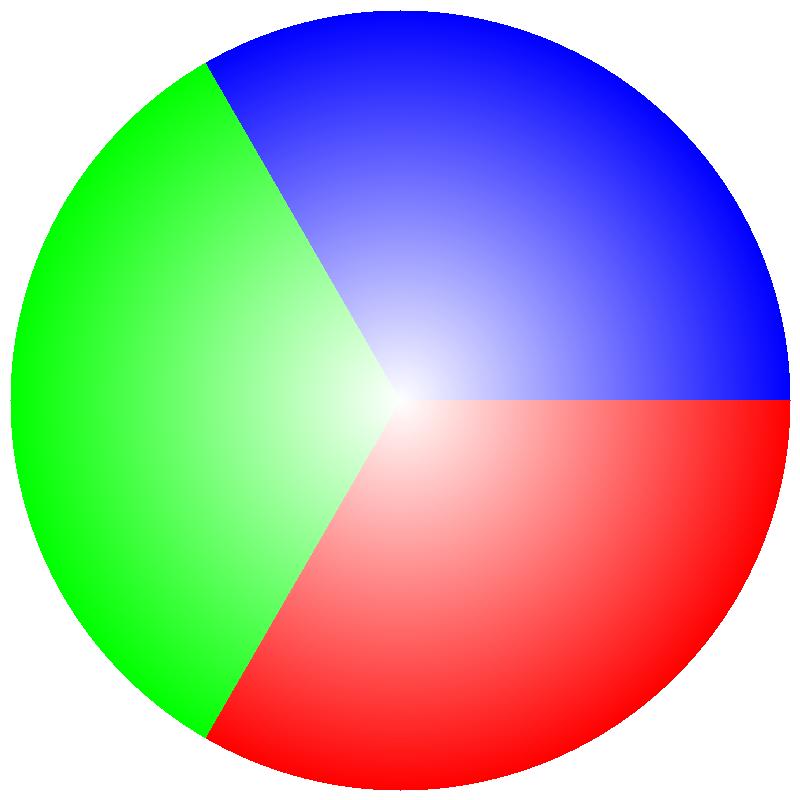
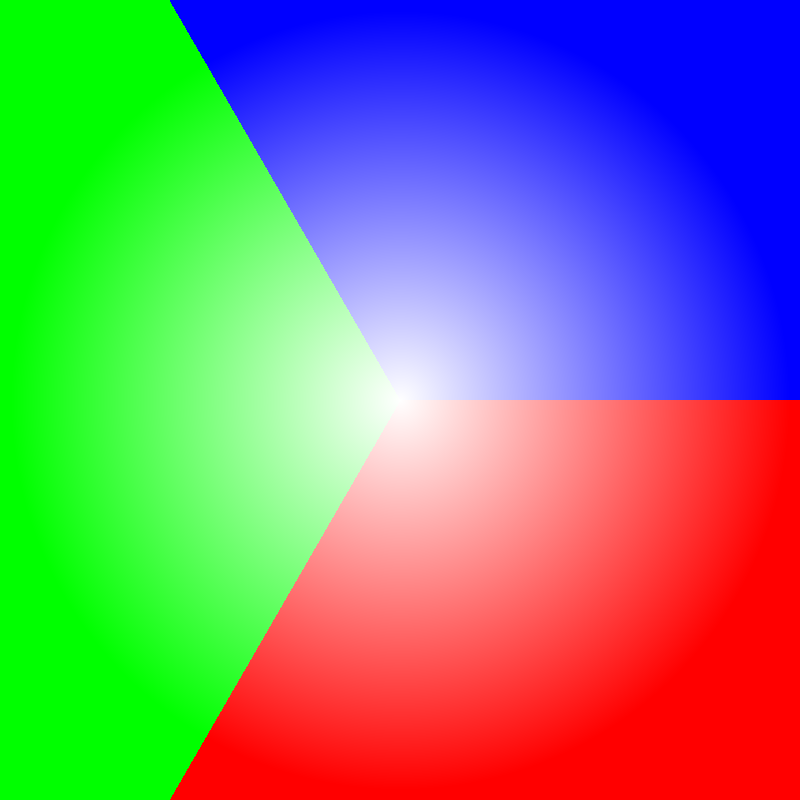
removed radius for creating full image swirls

Changed region(s): [[0.0, 0.0, 1.0, 1.0]]

diff --git a/projects/tools/svg-to-jpg-converter/src/aesthetics.py b/projects/tools/svg-to-jpg-converter/src/aesthetics.py
@@ -21,12 +21,12 @@ def create_color_swirl(width, height):
             angle %= 2 * np.pi
 
             distance = np.sqrt(dx ** 2 + dy ** 2)
-            if distance <= max_radius:
-                hue = angle / (2 * np.pi)
-                saturation = distance / max_radius
-                value = 0.9  # Fixed value for brightness
-                r, g, b = [int(c * 255) for c in colorsys.hsv_to_rgb(hue, saturation, value)]
-                pixels[x, y] = (r, g, b)
+            # if distance <= max_radius:
+            hue = angle / (2 * np.pi)
+            saturation = distance / max_radius
+            value = 0.9  # Fixed value for brightness
+            r, g, b = [int(c * 255) for c in colorsys.hsv_to_rgb(hue, saturation, value)]
+            pixels[x, y] = (r, g, b)
 
     # Show or save the image
     img.save("color_swirl.png")  # To save the image as 'color_swirl.png'
@@ -62,12 +62,12 @@ def create_abstract_swirl(width, height, *hex_colors):
             angle %= 2 * np.pi
 
             distance = np.sqrt(dx ** 2 + dy ** 2)
-            if distance <= max_radius:
-                color_idx = int((angle / (2 * np.pi)) * len(rgb_colors)) % len(rgb_colors)
-                hue, saturation, value = colorsys.rgb_to_hsv(*[c / 255 for c in rgb_colors[color_idx]])
-                saturation = distance / max_radius
-                r, g, b = [int(c * 255) for c in colorsys.hsv_to_rgb(hue, saturation, value)]
-                pixels[x, y] = (r, g, b)
+            # if distance <= max_radius:
+            color_idx = int((angle / (2 * np.pi)) * len(rgb_colors)) % len(rgb_colors)
+            hue, saturation, value = colorsys.rgb_to_hsv(*[c / 255 for c in rgb_colors[color_idx]])
+            saturation = distance / max_radius
+            r, g, b = [int(c * 255) for c in colorsys.hsv_to_rgb(hue, saturation, value)]
+            pixels[x, y] = (r, g, b)
 
     # Show or save the image
     # img.show()  # To display the image
@@ -76,11 +76,11 @@ def create_abstract_swirl(width, height, *hex_colors):
 
 def main():
     # Provide 3 or 4 hex color codes
-    create_abstract_swirl(800, 800, '#FF0000', '#00FF00', '#0000FF')  # For 3 colors
+    # create_abstract_swirl(800, 800, '#FF0000', '#00FF00', '#0000FF')  # For 3 colors
     # create_abstract_swirl(800, 800, '#FF0000', '#00FF00', '#0000FF', '#FFFF00')  # For 4 colors
 
     # Set the desired width and height
-    # create_color_swirl(800, 800)
+    create_color_swirl(800, 800)
     
 if __name__ == "__main__":
     main()
